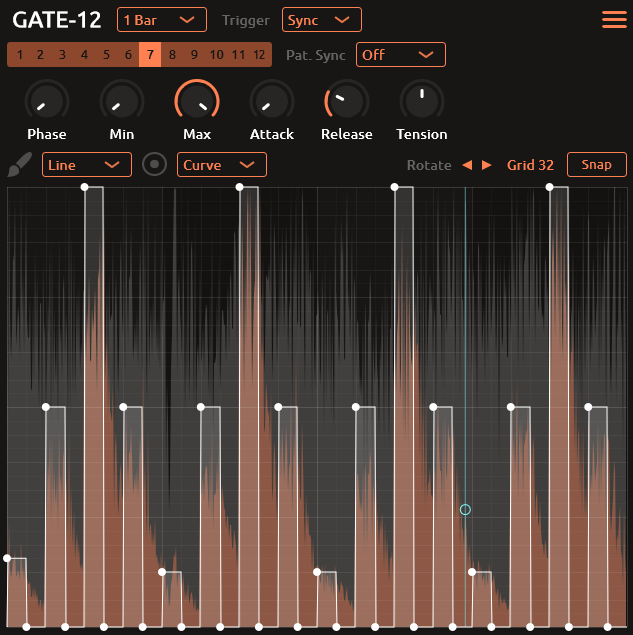
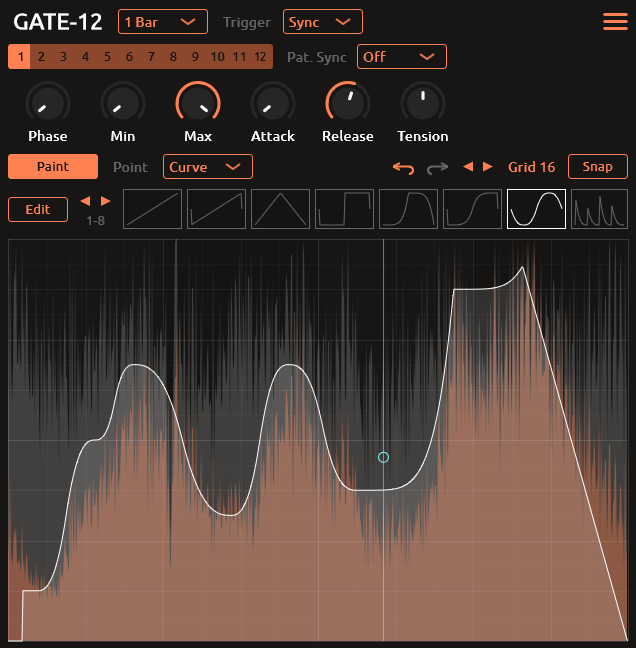
.

diff --git a/src/ui/View.cpp b/src/ui/View.cpp
@@ -490,10 +490,6 @@ void View::mouseDrag(const juce::MouseEvent& e)
         return;
     }
 
-    Point pos = e.getPosition();
-    int x = pos.x;
-    int y = pos.y;
-
     if (multiselect.mouseHover > -1 && e.mods.isRightButtonDown()) {
         return;
     }
@@ -503,26 +499,30 @@ void View::mouseDrag(const juce::MouseEvent& e)
         return;
     }
 
-    if (rmousePoint == -1 && e.mods.isRightButtonDown()) {
+    if (e.mods.isRightButtonDown()) {
         return;
     }
 
-    auto& points = audioProcessor.viewPattern->points;
-    double grid = (double)audioProcessor.getCurrentGrid();
-    double gridx = double(winw) / grid;
-    double gridy = double(winh) / grid;
-    double xx = (double)x;
-    double yy = (double)y;
-    if (isSnapping(e)) {
-        xx = std::round((xx - winx) / gridx) * gridx + winx;
-        yy = std::round((yy - winy) / gridy) * gridy + winy;
-    }
-    xx = (xx - winx) / winw;
-    yy = (yy - winy) / winh;
-    if (yy > 1) yy = 1.0;
-    if (yy < 0) yy = 0.0;
+    Point pos = e.getPosition();
+    int x = pos.x;
+    int y = pos.y;
 
     if (selectedPoint > -1) {
+        auto& points = audioProcessor.viewPattern->points;
+        double grid = (double)audioProcessor.getCurrentGrid();
+        double gridx = double(winw) / grid;
+        double gridy = double(winh) / grid;
+        double xx = (double)x;
+        double yy = (double)y;
+        if (isSnapping(e)) {
+            xx = std::round((xx - winx) / gridx) * gridx + winx;
+            yy = std::round((yy - winy) / gridy) * gridy + winy;
+        }
+        xx = (xx - winx) / winw;
+        yy = (yy - winy) / winh;
+        if (yy > 1) yy = 1.0;
+        if (yy < 0) yy = 0.0;
+
         auto& point = points[selectedPoint];
         point.y = yy;
         point.x = xx;
@@ -536,6 +536,7 @@ void View::mouseDrag(const juce::MouseEvent& e)
             auto& prev = points[static_cast<size_t>(selectedPoint) - 1];
             if (point.x <= prev.x) point.x = prev.x + 1e-8;
         }
+        audioProcessor.viewPattern->buildSegments();
     }
 
     else if (selectedMidpoint > -1) {
@@ -547,13 +548,12 @@ void View::mouseDrag(const juce::MouseEvent& e)
         if (tension > 1) tension = 1;
         if (tension < -1) tension = -1;
         mpoint.tension = tension;
+        audioProcessor.viewPattern->buildSegments();
     }
 
     else if (preSelectionStart.x > -1) {
         preSelectionEnd = e.getPosition();
     }
-
-    audioProcessor.viewPattern->buildSegments();
 }
 
 void View::mouseDoubleClick(const juce::MouseEvent& e)

diff --git a/src/ui/PaintToolWidget.cpp b/src/ui/PaintToolWidget.cpp
@@ -17,11 +17,12 @@ void PaintToolWidget::paint(Graphics& g)
     auto rects = getPatRects();
     for (int i = 0; i < (int)rects.size(); ++i) {
         int pati = i + audioProcessor.paintPage * 8;
-        auto color = pati == audioProcessor.paintTool ? Colours::white : Colour(COLOR_NEUTRAL);
+        bool isSelected = pati == audioProcessor.paintTool;
+        g.setColour(isSelected && audioProcessor.isPaintEdit() ? Colours::blue.withAlpha(0.05f) : Colours::black.withAlpha(0.1f));
+        g.fillRect(rects[i]);
+        auto color = isSelected ? Colours::white : Colour(COLOR_NEUTRAL);
         g.setColour(color);
         g.drawRect(rects[i]);
-        g.setColour(Colours::black.withAlpha(0.05f));
-        g.fillRect(rects[i]);
         drawPattern(g, rects[i].expanded(-4, -4), pati, color);
     }
 }

diff --git a/src/PluginEditor.cpp b/src/PluginEditor.cpp
@@ -436,7 +436,7 @@ GATE12AudioProcessorEditor::GATE12AudioProcessorEditor (GATE12AudioProcessor& p)
     col += 25;
     paintWidget = std::make_unique<PaintToolWidget>(p);
     addAndMakeVisible(*paintWidget);
-    paintWidget->setBounds(col,row,getWidth() - PLUG_PADDING - col, 40);
+    paintWidget->setBounds(col,row,PLUG_WIDTH - PLUG_PADDING - col, 40);
 
     // VIEW
     col = 0;

diff --git a/src/ui/PaintTool.h b/src/ui/PaintTool.h
@@ -23,10 +23,10 @@ public:
     void mouseUp(const MouseEvent& e);
 
 private:
-    int paintW = 50;
-    int paintH = 100;
-    int startW = 50;
-    int startH = 100;
+    int paintW = 100;
+    int paintH = 150;
+    int startW = 100;
+    int startH = 150;
     int winx = 0;
     int winy = 0;
     int winw = 0;

diff --git a/README.md b/README.md
@@ -34,6 +34,7 @@
   * **Audio trigger** use audio transients to trigger the envelope
   * **Pattern sync** changes to beat position
   * **Multi-point** selection dragging, scaling and skewing
+  * **Paint-mode** revamped with user patterns painted on view
   * **Rotate patterns** no longer constrained by start and end points
   * **Undo & Redo** supported
   * Other **improvements and fixes**
@@ -42,7 +43,7 @@
 
   * Multi-segment editor
   * 12 patterns triggered by midi notes
-  * Paint mode - erase, line, saw up, saw down ..
+  * Paint mode with user defined patterns
   * Point type - hold, curve, s-curve, stairs ..
   * Tempo sync or lfo rate (Hz)
   * Attack and release smooth
@@ -69,6 +70,16 @@ With version 2 this plugin was rebuilt from scratch using JUCE for its cross-pla
 Like GrossBeat, GATE-12 includes 8 point types that can be changed by right clicking a point, the default point type can also be changed in the tools-bar.
 
 ![curves](/doc/curves.png)
+
+#### Paint mode
+
+Paint mode was completely remade in version 2, it now works with custom patterns that can be edited like the main audio patterns and rescaled before placing on view.
+
+This mode has to be activated by clicking the `Paint` button, a list of patterns will show above the editor window.
+
+![patterns](/doc/patterns.png)
+
+There are 32 patterns that can be used and edited, these patterns are saved in the settings file and shared by any instances of the plugin.
 
 #### Self repeating patterns
 
@@ -98,14 +109,12 @@ Using right click on the view, the current selected paint tool will be applied t
 
 ### Tips
 
-  * `Ctrl` for fine slider adjustments
-  * `Ctrl` to toggle snap on/off
+  * `Shift` for fine slider adjustments
+  * `Shift` to toggle snap on/off
   * `Mouse wheel` on view to change grid size
   * `Right click` points to change point type
-  * `Right click` view to paint using paint tool
-  * `Ctrl + right click` view to erase points
-  * `Alt + right click` to erase points
   * `Alt + drag` selection handles to skew/deform the selected points
+  * `Alt + drag` in paint *edit* mode to apply tension to all points
 
 ## MacOS
 
